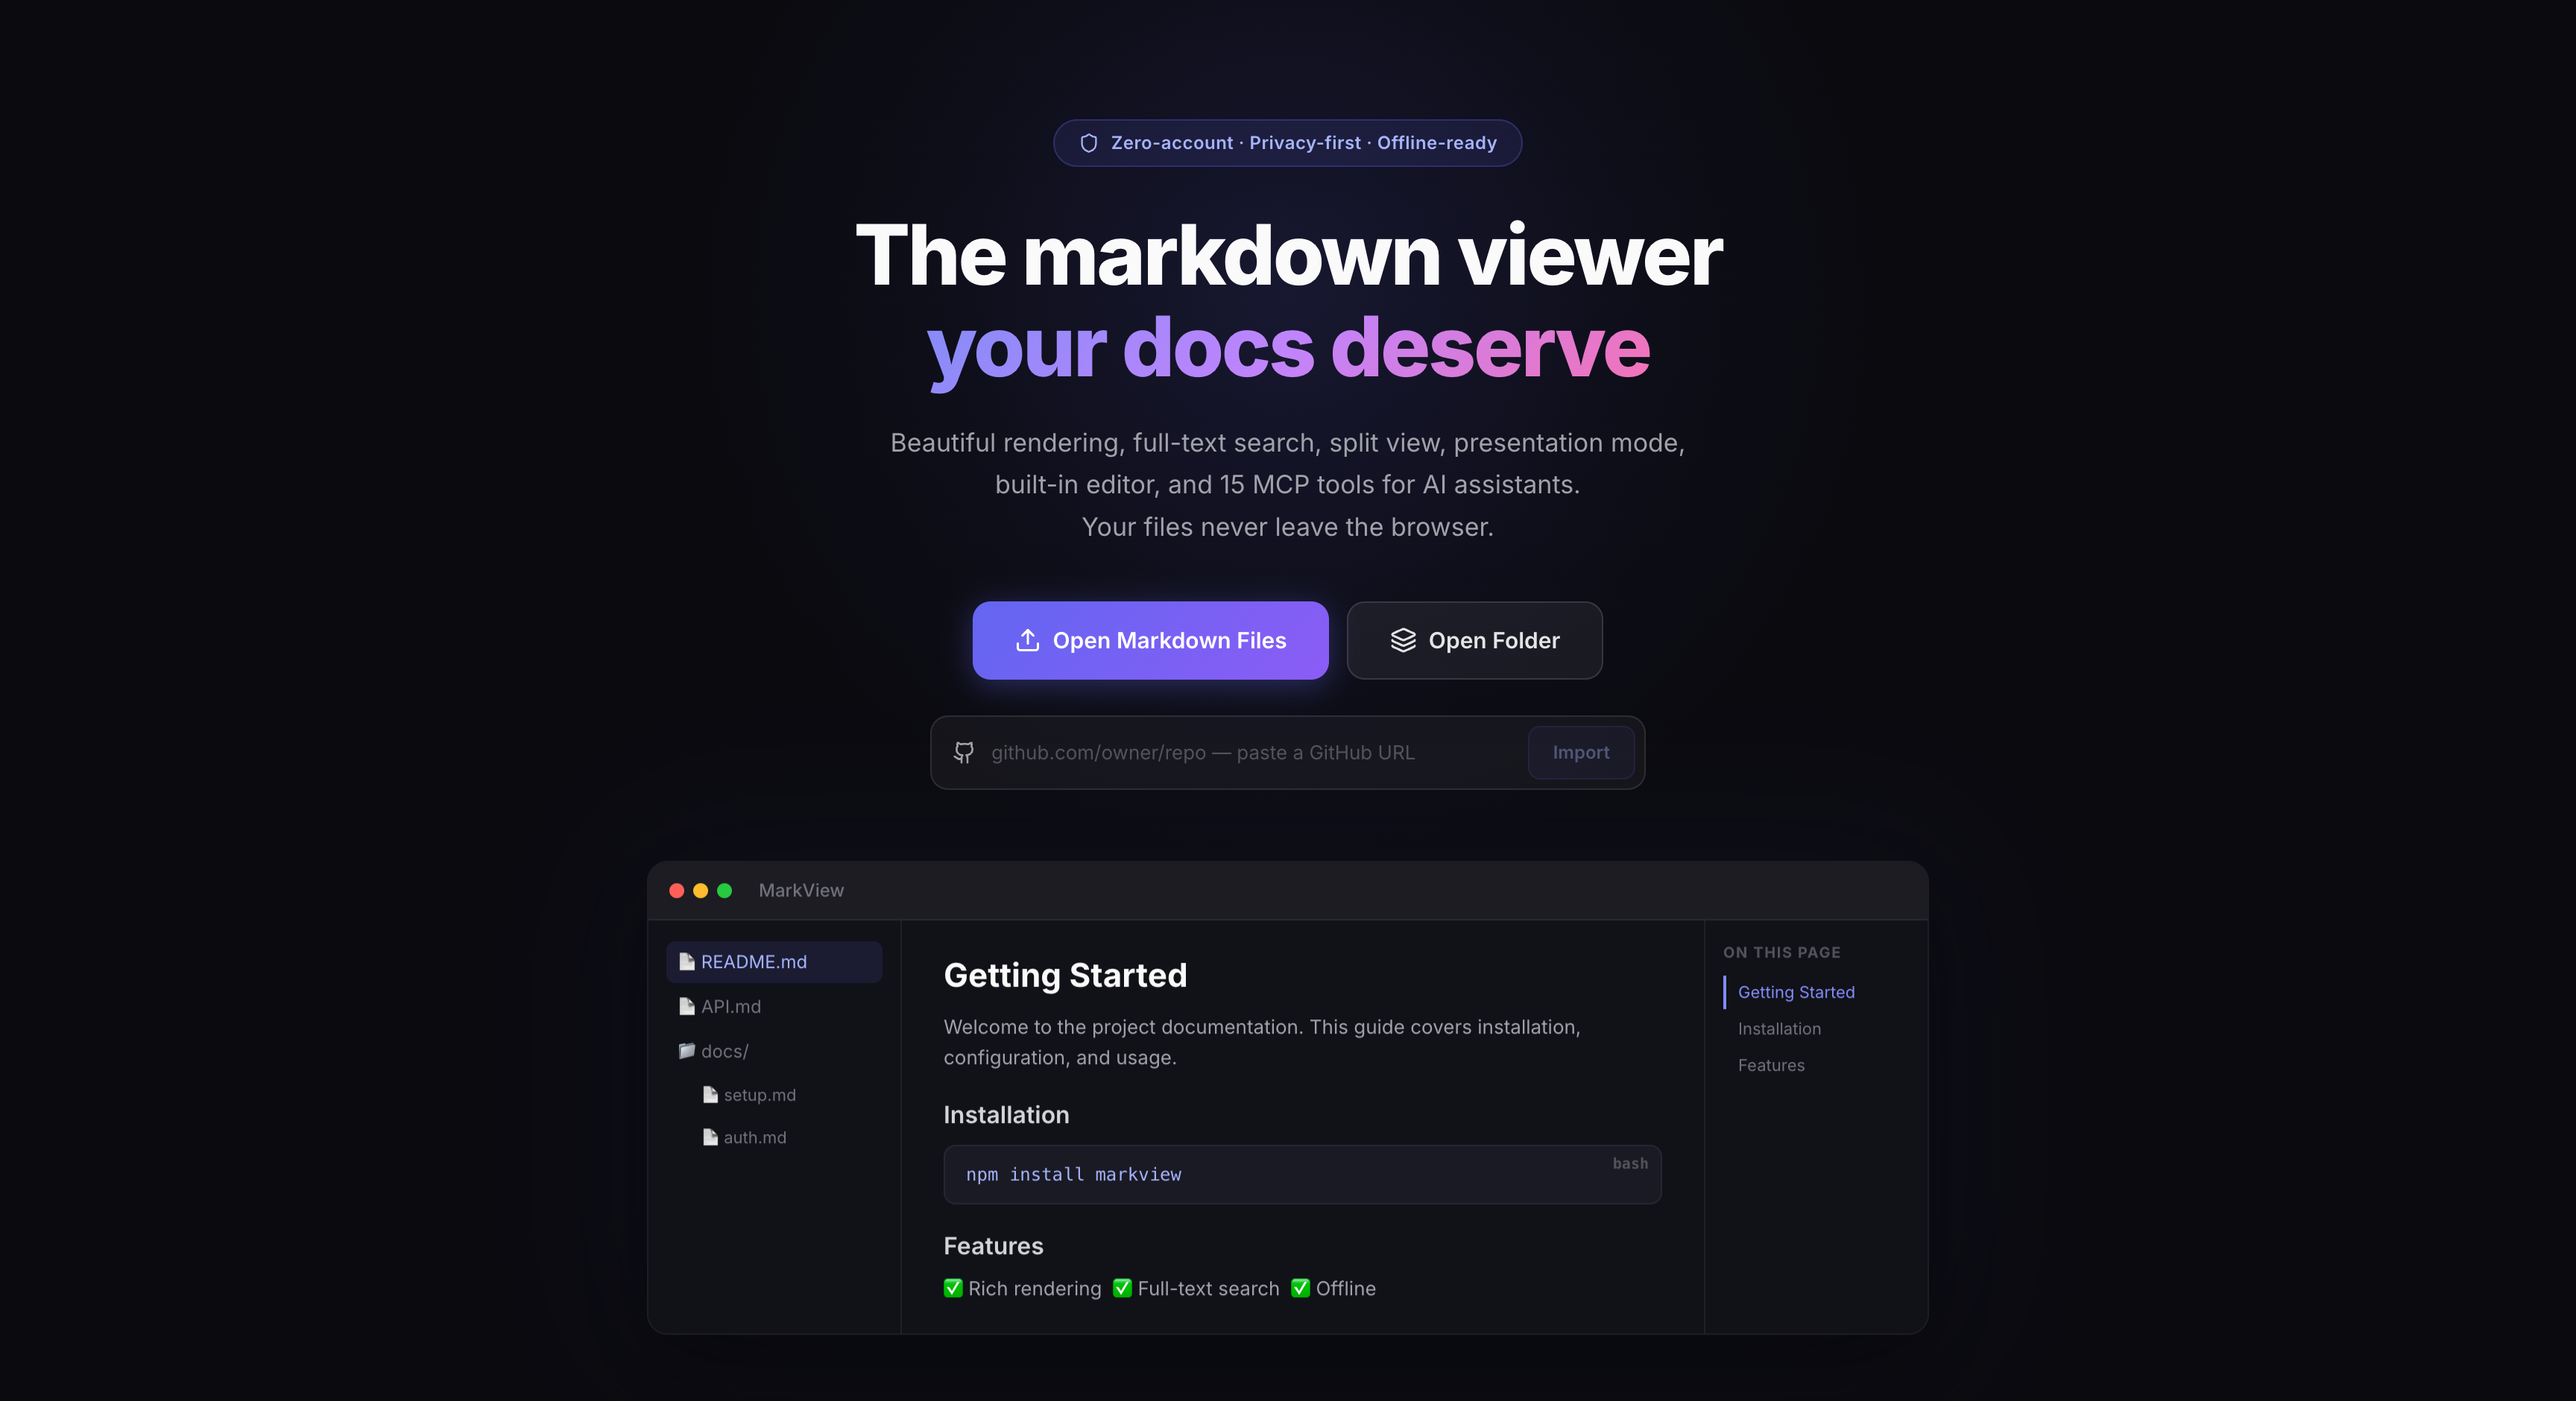
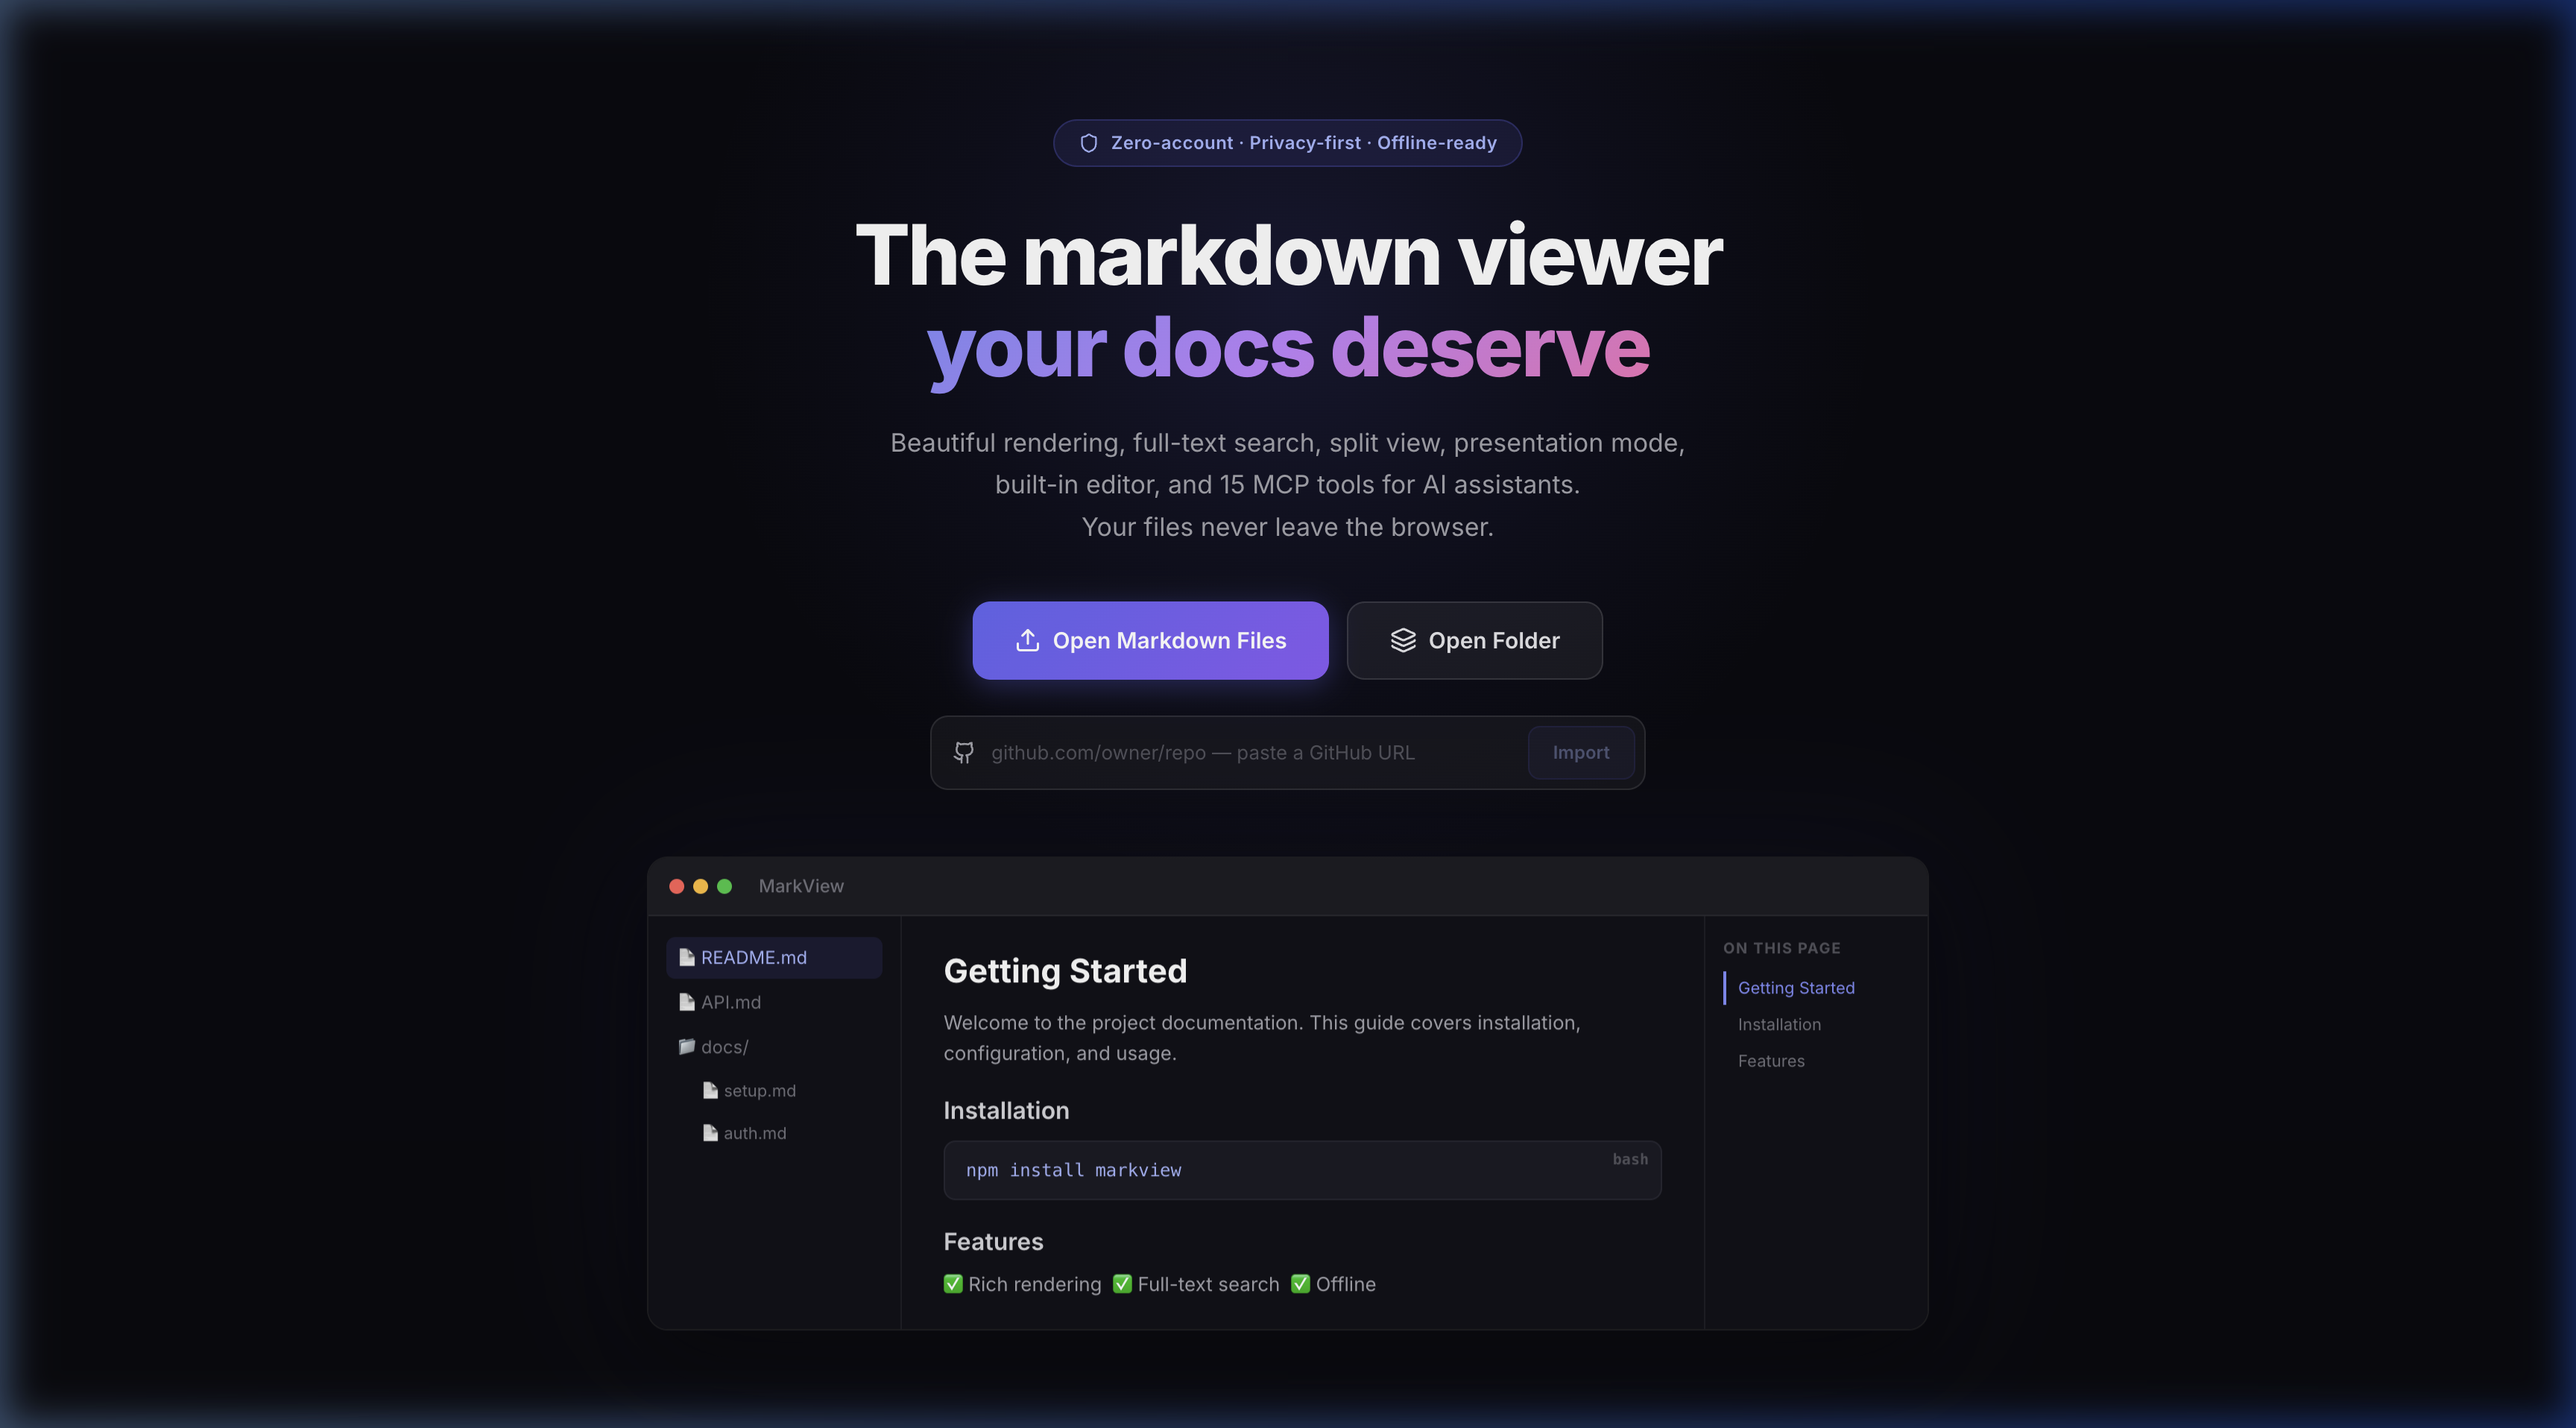
chore: pre-release polish — badges, CI E2E, demo screenshot, .gitignore
- Add CI status + tests passing badges to README
- Add Playwright E2E step to CI workflow
- Add demo screenshot to .github/assets/hero.png
- .gitignore: add test-results/, playwright-report/
- Remove accidentally committed test-results/

diff --git a/README.md b/README.md
@@ -7,6 +7,8 @@
 Beautiful rendering, full-text search, split view, presentation mode, built-in editor, and 15 MCP tools for AI assistants. Your files never leave the browser.
 
 [![License: MIT](https://img.shields.io/badge/License-MIT-6366f1.svg)](LICENSE)
+[![CI](https://github.com/abgnydn/markview/actions/workflows/ci.yml/badge.svg)](https://github.com/abgnydn/markview/actions/workflows/ci.yml)
+[![Tests](https://img.shields.io/badge/tests-98_passing-22c55e)](apps/web/e2e)
 [![PRs Welcome](https://img.shields.io/badge/PRs-welcome-brightgreen.svg)](CONTRIBUTING.md)
 [![Made with Next.js](https://img.shields.io/badge/Next.js-16-black?logo=next.js)](https://nextjs.org)
 [![MCP Tools](https://img.shields.io/badge/MCP_Tools-15-10b981)](apps/mcp)
